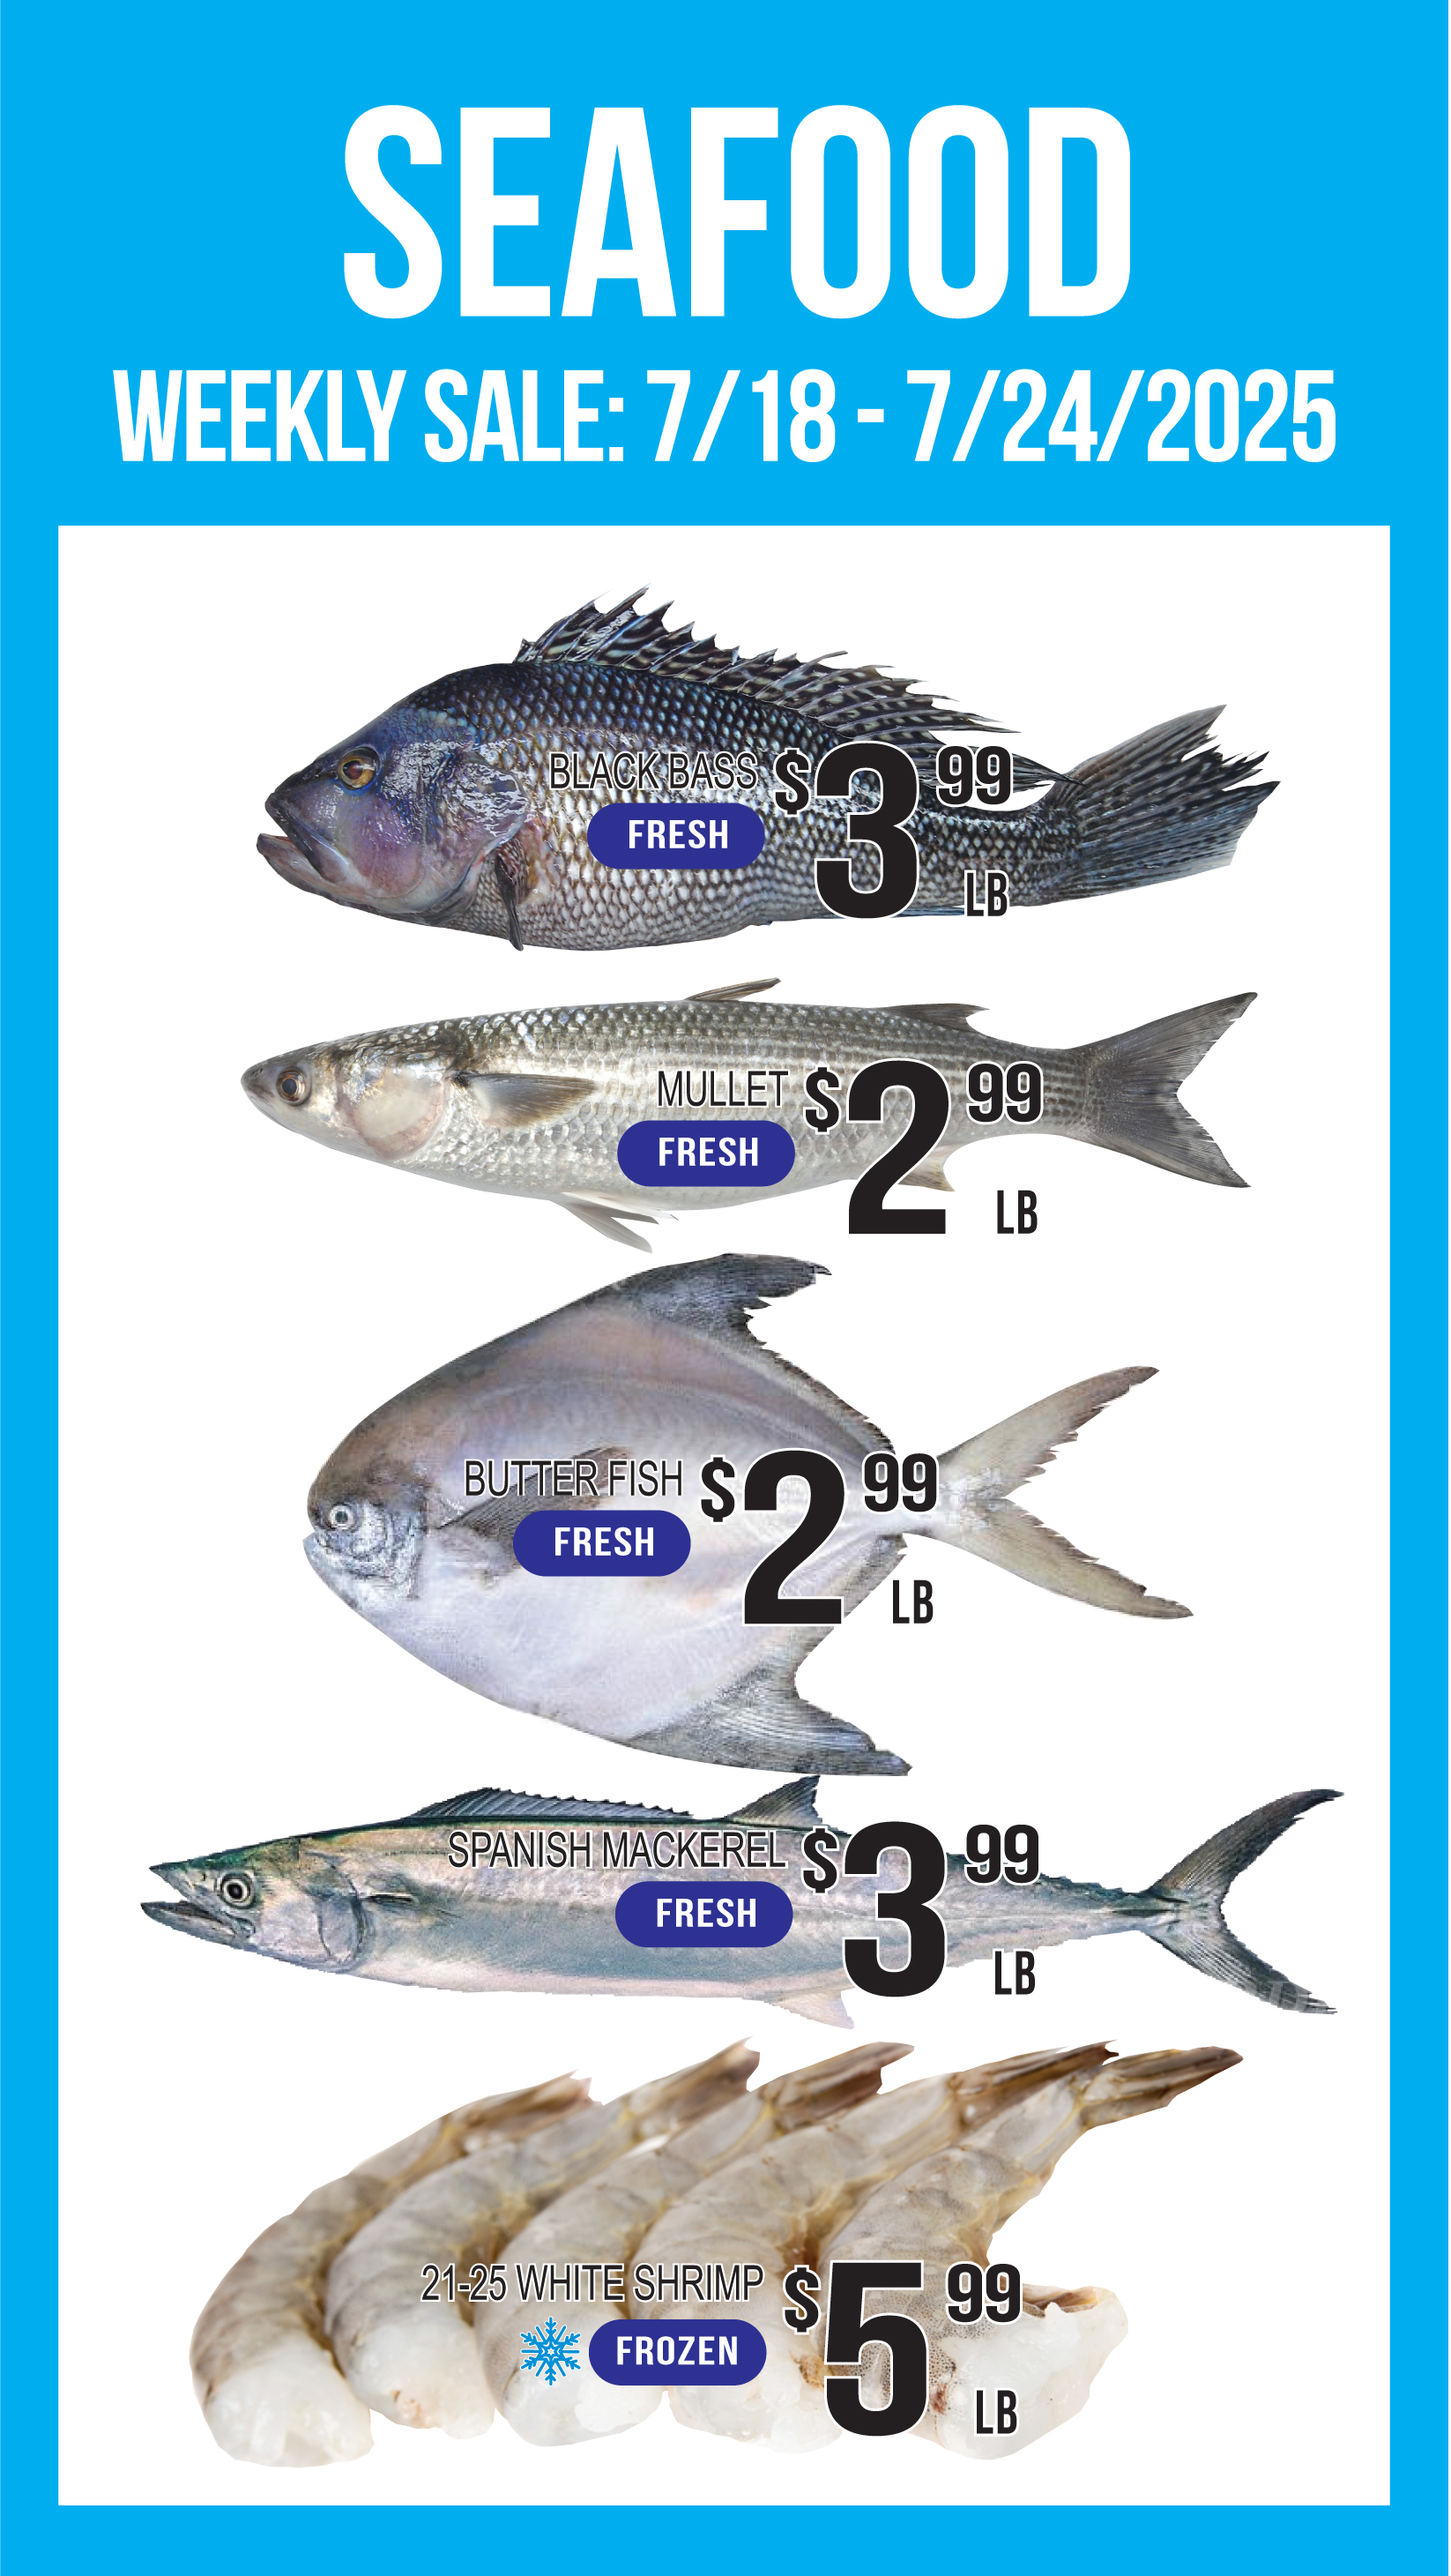
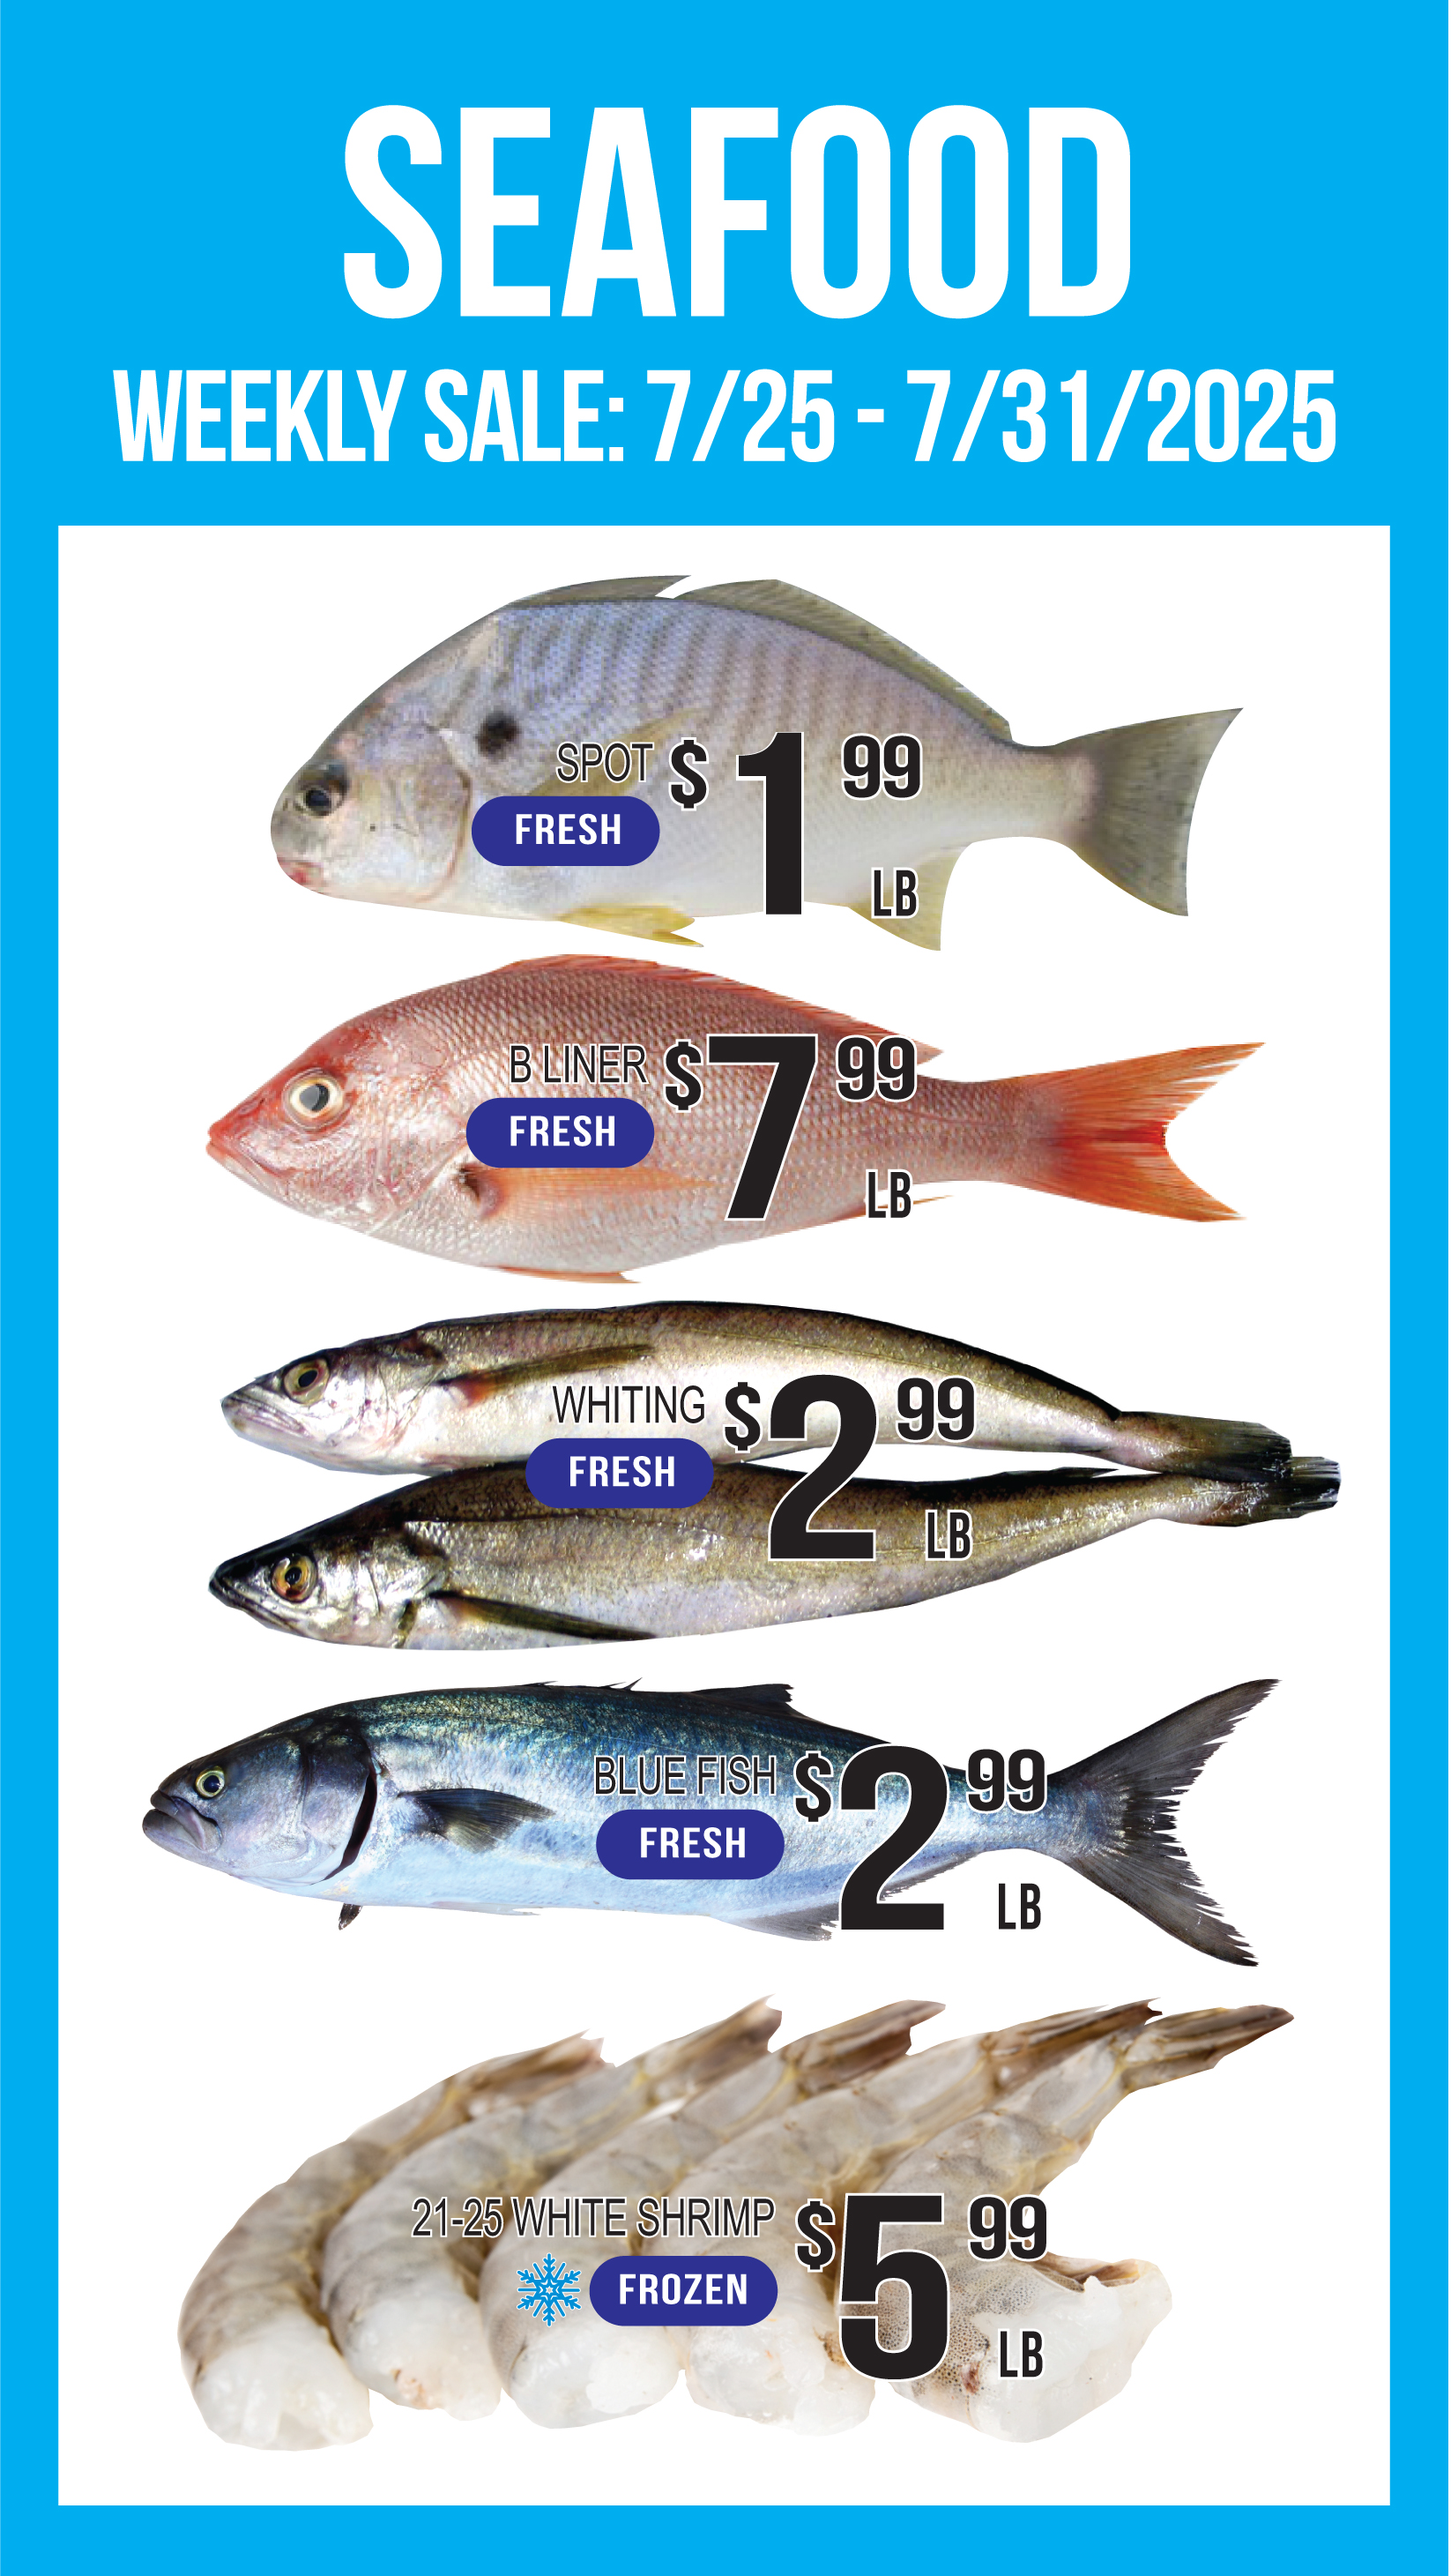
weekly

diff --git a/index.html b/index.html
@@ -67,16 +67,16 @@
           <img src="./public/assets/weekly/independence.jpg" class="img-fluid" alt="...">
         </div> -->
         <div class="carousel-item center-carousel active">
-          <img src="./public/assets/weekly/meat.jpg?v=0718" class="img-fluid" alt="...">
+          <img src="./public/assets/weekly/meat.jpg?v=0725" class="img-fluid" alt="...">
         </div>
         <div class="carousel-item center-carousel">
-          <img src="./public/assets/weekly/produce.jpg?v=0718" class="img-fluid" alt="...">
+          <img src="./public/assets/weekly/produce.jpg?v=0725" class="img-fluid" alt="...">
         </div>
         <div class="carousel-item center-carousel">
-          <img src="./public/assets/weekly/seafood.jpg?v=0718" class="img-fluid" alt="...">
+          <img src="./public/assets/weekly/seafood.jpg?v=0725" class="img-fluid" alt="...">
         </div>
         <div class="carousel-item center-carousel">
-          <img src="./public/assets/weekly/grocery.jpg?v=0718" class="img-fluid" alt="...">
+          <img src="./public/assets/weekly/grocery.jpg?v=0725" class="img-fluid" alt="...">
         </div>
         <!-- <div class="carousel-item center-carousel">
           <img src="./public/assets/sale/grocery2.jpg?v=070623" class="img-fluid" alt="...">

diff --git a/deals.html b/deals.html
@@ -50,15 +50,15 @@
     <div class="row deal">
 
       <h2>English</h2>
-      <img class="img-fluid" src="./public/assets/weekly/english.jpg?v=0718">
+      <img class="img-fluid" src="./public/assets/weekly/english.jpg?v=0725">
 
       <br><br>
       <h2>Hispanic</h2>
-      <img class="img-fluid" src="./public/assets/weekly/hispanic.jpg?v=0718">
+      <img class="img-fluid" src="./public/assets/weekly/hispanic.jpg?v=0725">
 
       <br>
       <h2>Korean</h2>
-      <img class="img-fluid" src="./public/assets/weekly/korean.jpg?v=0718">
+      <img class="img-fluid" src="./public/assets/weekly/korean.jpg?v=0725">
       <br>
       <br>
     </div>
